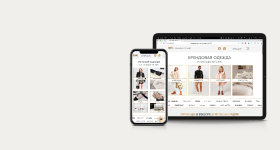
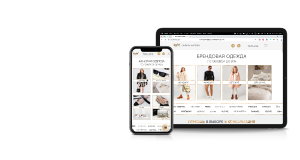
main

Changed region(s): [[0.4286, 0.16, 0.9714, 0.88], [0.6286, 0.7467, 0.8571, 0.7733]]

diff --git a/src/containers/section-cases/style.scss b/src/containers/section-cases/style.scss
@@ -1,3 +1,4 @@
+@import "~components/breakpoints/mixin";
 @import "~styles/variables/fonts";
 
 .section-cases {
@@ -5,35 +6,26 @@
   background-color: #404040;
   background-image: linear-gradient(to bottom, #404040 , #222222 60%);
 }
-.section-cases__body {
-  display: grid;
-  grid-gap: 45px;
-  grid-template-columns: repeat(3, 1fr);
-}
 .section-cases__col {
-  display: flex;
-  flex-direction: column;
-  align-items: stretch;
-  justify-content: flex-start;
+  margin-bottom: 50px;
+
+  &:last-child {
+    margin-bottom: 0;
+  }
 }
 .section-cases__item {
-  display: flex;
-  flex-direction: column;
-  align-items: stretch;
-  justify-content: flex-start;
   color: #030303;
   border-radius: 10px;
   background-color: #F4F4F4;
   z-index: 10;
   overflow: hidden;
-  flex: 1 0 auto;
 }
 .section-cases__item-head {
-  background-color: #ECEAE6;
+  padding: 14px;
+  background-color: #f0efec;
   border-radius: inherit;
   position: relative;
   box-shadow: 5px 5px 18px #C7C7C7;
-  padding: 14px;
   z-index: inherit;
   overflow: hidden;
 }
@@ -68,9 +60,15 @@
   font-size: 0;
   line-height: 0;
   right: 0;
+  top: 0;
   bottom: 0;
   overflow: hidden;
+  max-height: 100%;
   z-index: -1;
+
+  img {
+    max-height: 100%;
+  }
 }
 .section-cases__item-body {
   flex: 1 0 auto;
@@ -90,4 +88,52 @@
 }
 .section-cases__item-button {
   margin-top: 14px;
+}
+
+
+@include breakpoint(sm) {
+  .section-cases__item-head {
+    padding: 30px;
+  }
+  .section-cases__item-title {
+    font-size: 28px;
+  }
+  .section-cases__item-button {
+    max-width: 380px;
+    margin: 20px auto 0 auto;
+  }
+}
+@include breakpoint(md) {
+  .section-cases__body {
+    display: grid;
+    grid-gap: 45px;
+    grid-template-columns: repeat(3, 1fr);
+  }
+  .section-cases__item {
+    display: flex;
+    flex-direction: column;
+    align-items: stretch;
+    justify-content: flex-start;
+    flex: 1 0 auto;
+  }
+  .section-cases__col {
+    display: flex;
+    flex-direction: column;
+    align-items: stretch;
+    justify-content: flex-start;
+    margin-bottom: 0;
+  }
+  .section-cases__item-head {
+    padding: 14px;
+  }
+  .section-cases__item-title {
+    font-size: 22px;
+  }
+  .section-cases__item-button {
+    max-width: none;
+    margin: 14px 0 0 0;
+  }
+  .section-cases__item-image {
+    top: auto;
+  }
 }

diff --git a/src/containers/section-cases/index.js b/src/containers/section-cases/index.js
@@ -4,5 +4,6 @@ import '~components/section'
 import '~components/section-head'
 import '~components/section-title'
 import '~components/container'
+import '~components/picture'
 import '~components/image'
 import '~components/button'

diff --git a/src/components/button/style.scss b/src/components/button/style.scss
@@ -53,9 +53,9 @@
 
 @include breakpoint(sm) {
   .button.button--small {
-    font-size: 18px;
+    font-size: 16px;
     line-height: 20px;
-    padding: 20px;
+    padding: 20px 10px;
   }
 }
 @include breakpoint(lg) {

diff --git a/src/containers/service-card/style.scss b/src/containers/service-card/style.scss
@@ -58,6 +58,11 @@
   height: 100%;
   font-size: 0;
   line-height: 0;
+
+  img {
+    max-width: 80%;
+    max-height: 80%;
+  }
 }
 .service-card__button {
   box-shadow: -5px -5px 24px #FFFFFF, 5px 5px 18px #C7C7C7;

diff --git a/src/components/section/style.scss b/src/components/section/style.scss
@@ -1,4 +1,12 @@
+@import "~components/breakpoints/mixin";
+
 .section {
-  padding: 80px 0;
+  padding: 40px 0;
   position: relative;
+}
+
+@include breakpoint(sm) {
+  .section {
+    padding: 80px 0;
+  }
 }
